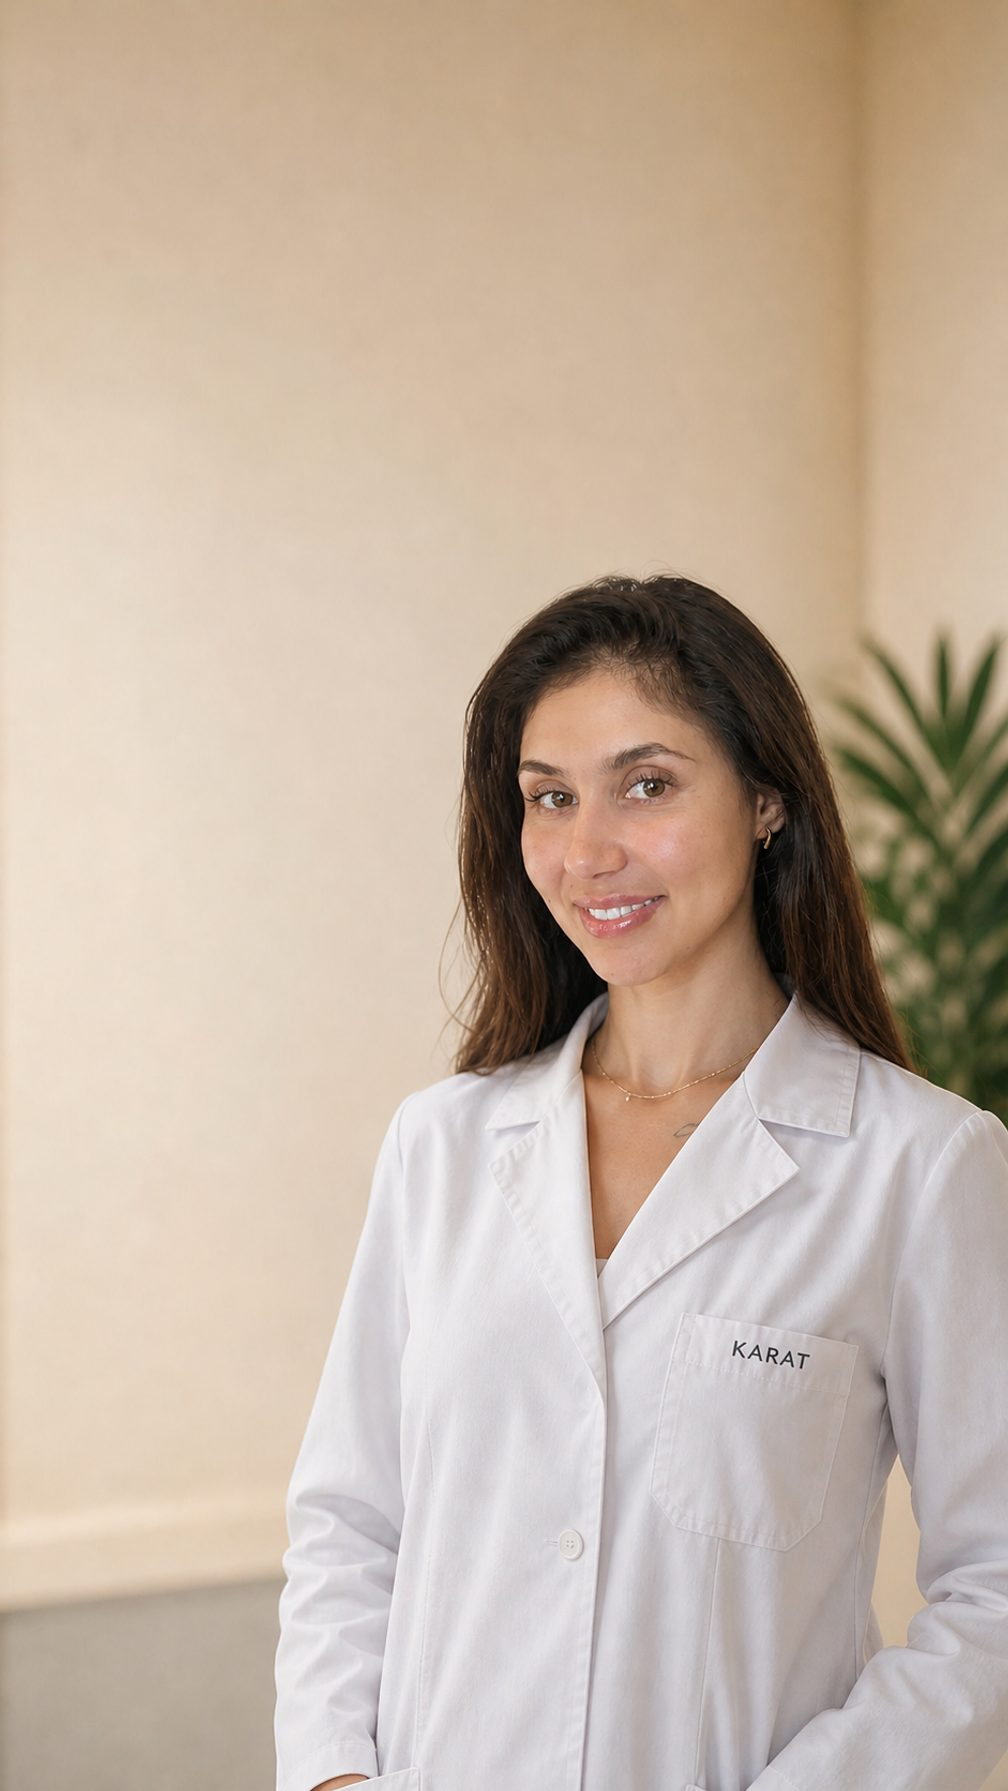
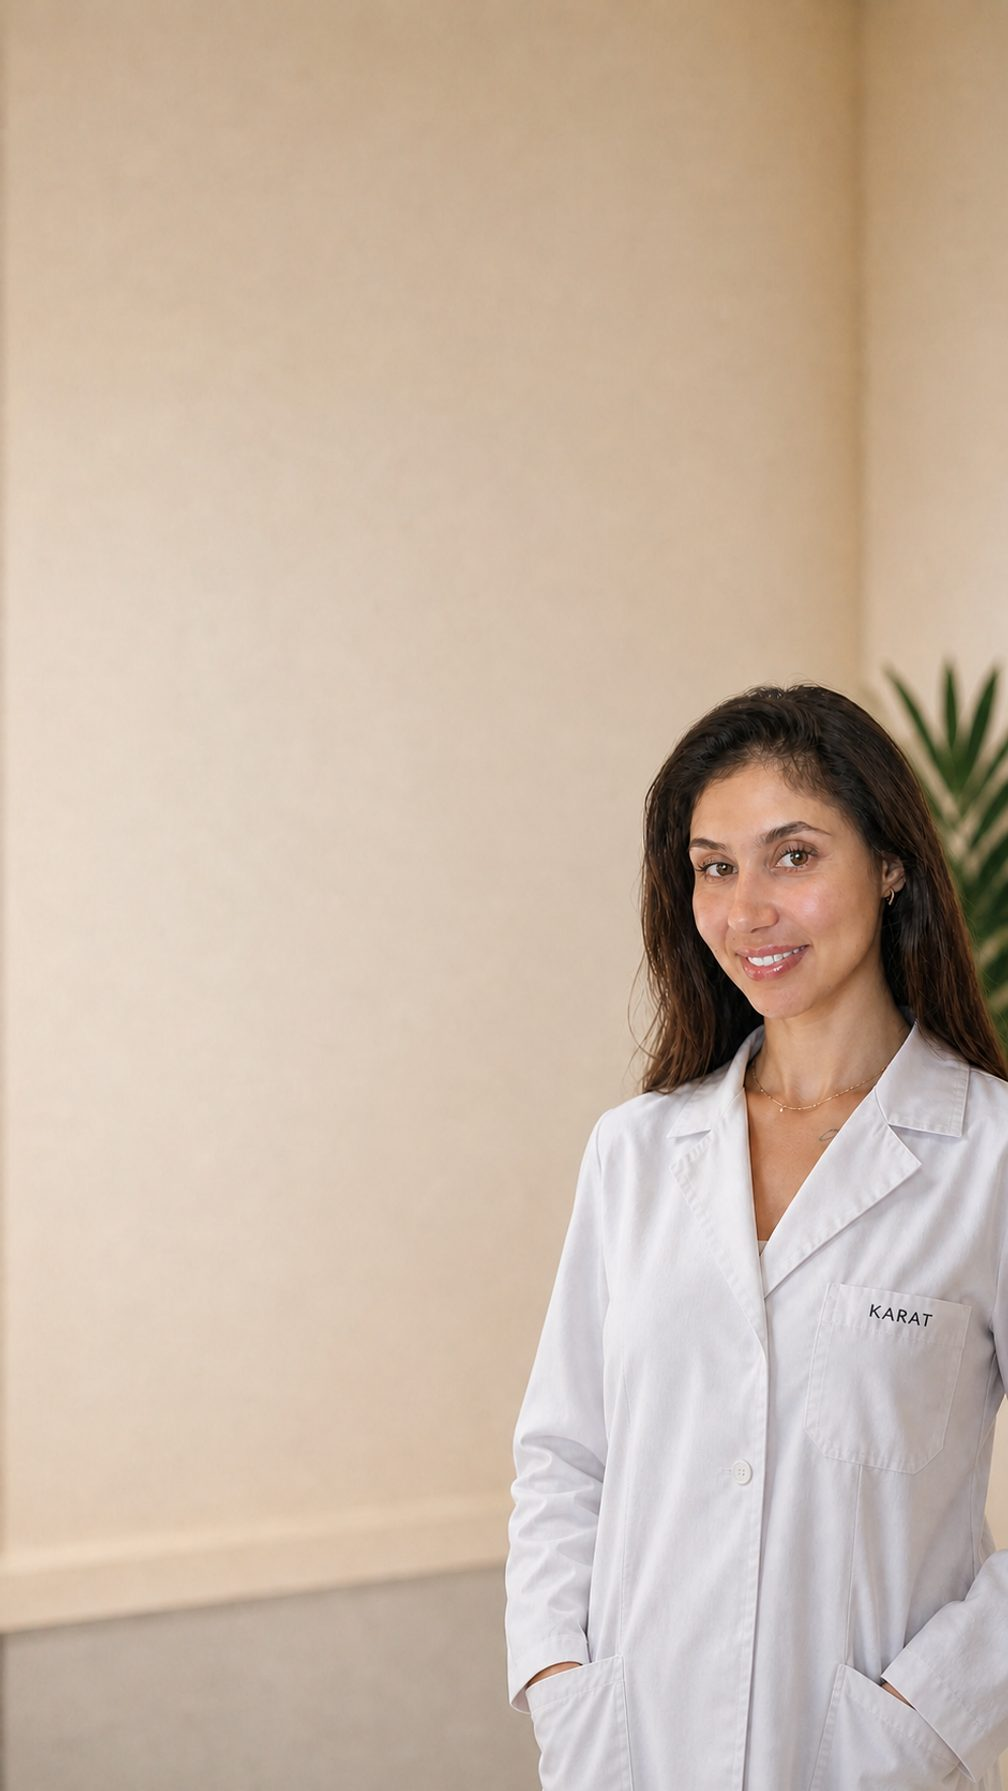
Hero photos v3: subject shifted right
Generated with [Devin](https://devin.ai)

Changed region(s): [[0.0, 0.3071, 1.0, 1.0], [0.9226, 0.952, 0.9841, 0.9827], [0.0, 0.8291, 0.0308, 0.8599]]

diff --git a/index.html b/index.html
@@ -15,14 +15,14 @@
     <meta property="og:title" content="Стоматология в Тобольске KARAT TITAN — лечение и имплантация зубов" />
     <meta property="og:description" content="Стоматология KARAT TITAN в Тобольске: лечение кариеса, имплантация, брекеты, удаление зубов, детский стоматолог. 2 филиала — 7а и 15 мкр. Онлайн-запись. Приём от 600 ₽." />
     <meta property="og:url" content="https://karat-titan.ru/" />
-    <meta property="og:image" content="https://karat-titan.ru/images/Hero_One.jpg?v=2" />
+    <meta property="og:image" content="https://karat-titan.ru/images/Hero_One.jpg?v=3" />
     <meta property="og:locale" content="ru_RU" />
     <meta name="twitter:card" content="summary_large_image" />
     <meta name="twitter:title" content="Стоматология в Тобольске KARAT TITAN — лечение и имплантация зубов" />
     <meta name="twitter:description" content="Стоматология KARAT TITAN в Тобольске: лечение кариеса, имплантация, брекеты, удаление зубов, детский стоматолог. 2 филиала — 7а и 15 мкр. Онлайн-запись. Приём от 600 ₽." />
-    <meta name="twitter:image" content="https://karat-titan.ru/images/Hero_One.jpg?v=2" />
-    <link rel="preload" as="image" href="/images/Hero_One.webp?v=2" media="(min-width: 1024px)" fetchpriority="high" />
-    <link rel="preload" as="image" href="/images/Hero-mobile.webp?v=2" media="(max-width: 1023px)" fetchpriority="high" />
+    <meta name="twitter:image" content="https://karat-titan.ru/images/Hero_One.jpg?v=3" />
+    <link rel="preload" as="image" href="/images/Hero_One.webp?v=3" media="(min-width: 1024px)" fetchpriority="high" />
+    <link rel="preload" as="image" href="/images/Hero-mobile.webp?v=3" media="(max-width: 1023px)" fetchpriority="high" />
     <title>Стоматология в Тобольске KARAT TITAN — лечение и имплантация зубов</title>
   </head>
   <body>

diff --git a/src/components/sections/Hero.tsx b/src/components/sections/Hero.tsx
@@ -120,9 +120,9 @@ export function Hero({ onBook }: HeroProps) {
           {/* Content */}
           <div className="absolute inset-0 z-0 overflow-hidden">
             <picture>
-              <source media="(min-width: 1024px)" srcSet="/images/Hero_One.webp?v=2" />
+              <source media="(min-width: 1024px)" srcSet="/images/Hero_One.webp?v=3" />
               <img
-                src="/images/Hero-mobile.webp?v=2"
+                src="/images/Hero-mobile.webp?v=3"
                 alt="Врач клиники KARAT TITAN"
                 fetchPriority="high"
                 decoding="async"
